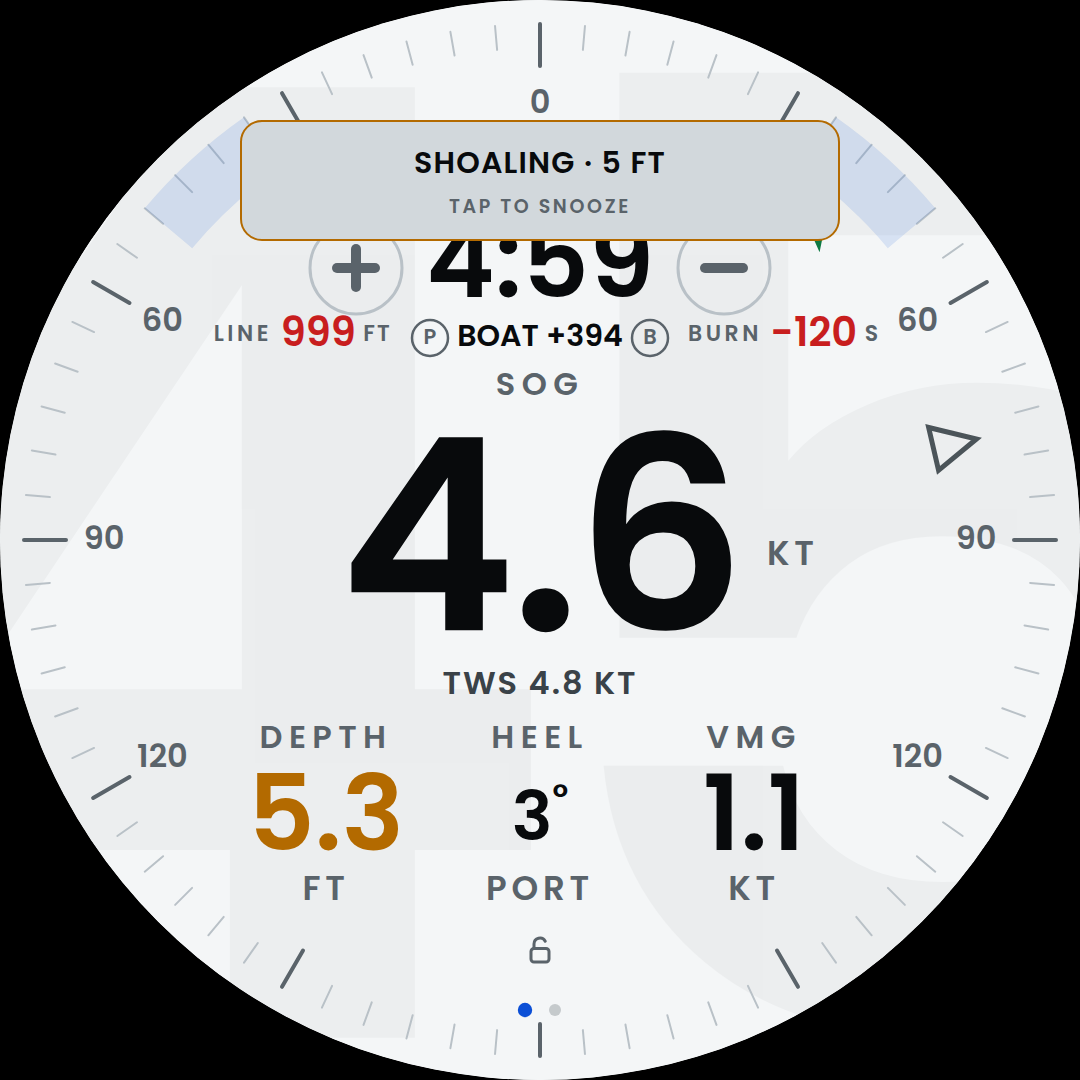
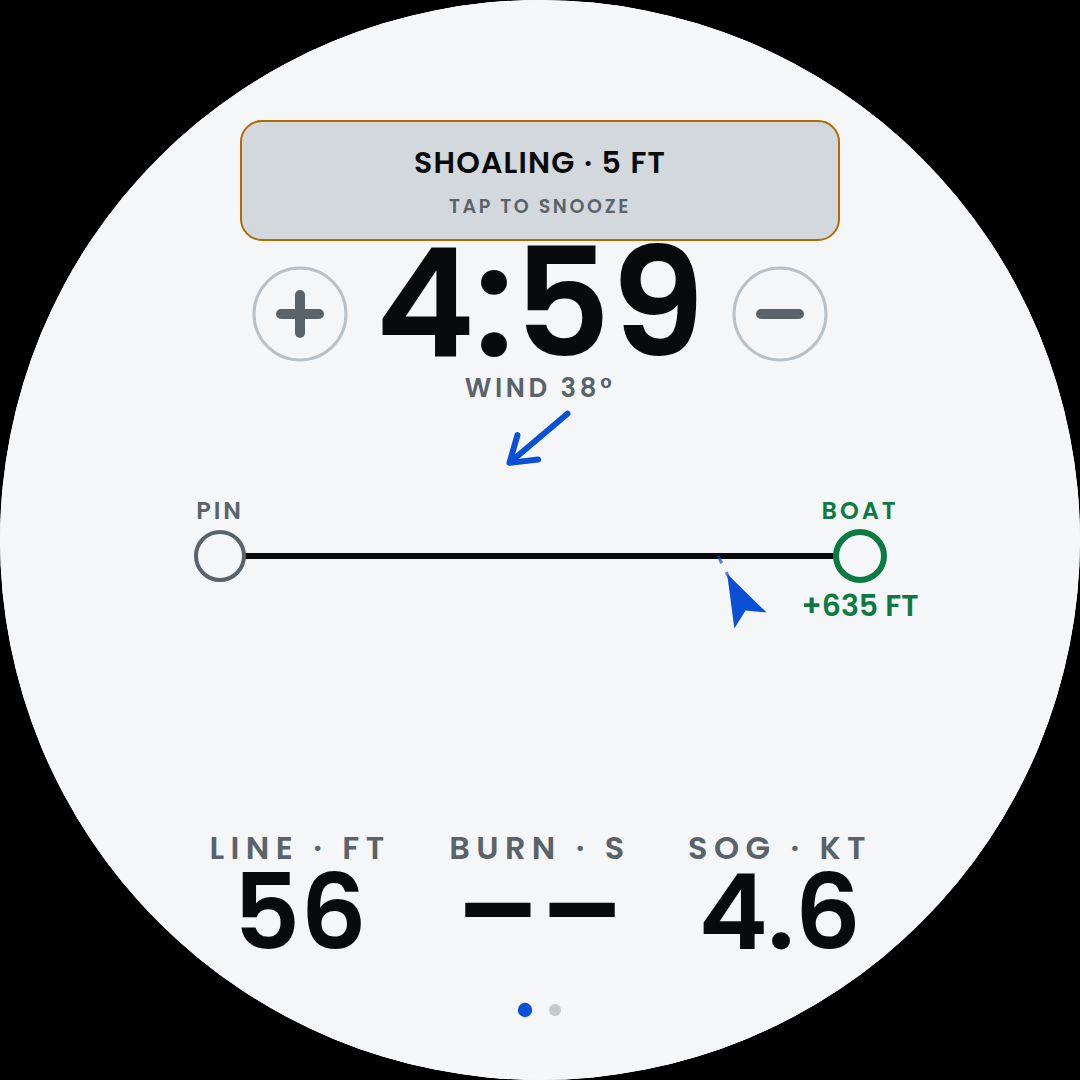
The start: from the first second of the countdown the whole face is the line
A new last group in the dial's SVG, #race-ov, up while tState is
countdown and gone at the gun or on reset. Its face is an opaque circle,
so nothing under it takes a tap, and the stage's gestures work through
it unchanged: a tap in the top third is the timer's (double for the
gun), a hold is reset, the swipes are the panel's and the dock's.

Top: the countdown at 150px, the same +/- sync either side, at 314
rather than the dial's 268 so the alert banner (which ends at 240)
cannot cover its ink - a shoaling warning is exactly what turns up on a
start line. No COUNTDOWN word; the overlay is the word.

Middle: the line to scale, looking upwind. lineData now hands out its
frame - n, the upwind unit normal, and v, pin to boat end - and the
picture is drawn in it: right is whichever way puts the far end to the
right seen from the pre-start side, so pin and boat end are on the sides
they really are. The wind arrow comes at the line from above tilted by
the bias; the favoured end is ringed green with its worth under it and
both ends ping on a tap; the boat is the arrow where she is, pointing
where she is going, her course dashed to where it meets the line; over
early is above the line, red. One scale for everything: up to 2.8 px/m,
the line filling the width, and the boat always fitting - a long way
off zooms out and the line shrinks with it.

Foot: LINE, BURN (green with time, red when late) and SOG at 300, 540
and 780, sized so 999 / -120 / 4.6 keep air between them.
[…]

diff --git a/confluence_helm.html b/confluence_helm.html
@@ -137,6 +137,21 @@ body.night #mark{opacity:.07}
 .rv .u{font-size:.55em;font-weight:600;fill:var(--label);letter-spacing:.1em}
 .rv.good{fill:var(--stbd)}.rv.bad{fill:var(--port)}
 .rbias{font-size:30px;font-weight:var(--w-val);fill:var(--ink)}
+/* the start overlay: the whole face, from the first second of the
+   countdown to the gun */
+#ov-timer{font-size:150px}
+#ov-burn{font-size:120px}
+.ov-small{font-size:26px;font-weight:600;letter-spacing:.14em;fill:var(--label)}
+.ov-lineln{stroke:var(--ink);stroke-width:6;stroke-linecap:round}
+.ov-end circle{fill:var(--bg);stroke:var(--label);stroke-width:4}
+.ov-end text{font-size:24px;font-weight:600;letter-spacing:.12em;fill:var(--label);text-anchor:middle}
+.ov-end.fav circle{stroke:var(--stbd);stroke-width:6}.ov-end.fav text{fill:var(--stbd)}
+.ov-end.set circle{fill:var(--chip)}
+.ov-end:active circle{fill:var(--hairline)}
+.ov-gain{font-size:30px;font-weight:600;fill:var(--stbd);text-anchor:middle}
+.ov-wind path{stroke:var(--accent);stroke-width:6;fill:none;stroke-linecap:round;stroke-linejoin:round}
+.ov-cogln{stroke:var(--accent);stroke-width:3;stroke-dasharray:10 10;fill:none;opacity:.7}
+.ov-boat path{fill:var(--accent)}.ov-boat.over path{fill:var(--port)}
 .pbtn .ring{fill:none;stroke:var(--label);stroke-width:2.5}
 .pbtn .hit{fill:transparent}
 .pbtn text{font-size:21px;font-weight:600;fill:var(--label)}
@@ -1501,6 +1516,71 @@ document.body.className = THEME_EFF==='day' ? '' : THEME_EFF;
       <rect class="lg" x="6" y="11" width="12" height="9" rx="2"/>
     </g>
   </g>
+
+  <!-- ================================================================
+       THE START. From the first second of the countdown to the gun the
+       whole face is the start line, because for those five minutes
+       nothing else on it matters and the dial's numbers are the wrong
+       shape for the question - am I going to be on the line, on time,
+       at the right end.
+       Top: the countdown at 150px with the same +/- sync either side,
+       at 314 rather than the dial's 268 so the alert banner, which ends
+       at 240, cannot sit over its ink (241 up) - a shoaling warning is exactly what
+       turns up on a start line. No COUNTDOWN word: the overlay is the
+       word.
+       Middle: the line, drawn to scale and looking upwind - the wind
+       arrow comes at it from above, tilted by the bias, so a line that
+       is not square to the wind LOOKS not square; the favoured end is
+       ringed green with what it is worth under it; the boat is the
+       arrow, where she actually is against the line, pointing where
+       she is actually going, with her course dashed on to where it
+       meets the line. Over early and she is drawn above it, red.
+       Foot: LINE, BURN, SOG - distance, time in hand, speed.
+       The last group in the SVG, so it paints over everything on the
+       dial, and its face is an opaque circle so nothing under it can
+       take a tap. The stage's gestures still work through it: a tap in
+       the top third is the timer's (double for the gun), a hold is
+       reset, the swipes are the panel's and the dock's. -->
+  <g id="race-ov" style="display:none">
+    <circle cx="540" cy="540" r="540" fill="var(--bg)"/>
+    <text id="ov-timer" class="value" x="540" y="314" text-anchor="middle">5:00</text>
+    <g id="ov-plus" class="tbtn">
+      <circle cx="300" cy="314" r="46"/>
+      <rect x="276" y="309" width="48" height="10" rx="5"/>
+      <rect x="295" y="290" width="10" height="48" rx="5"/>
+    </g>
+    <g id="ov-minus" class="tbtn">
+      <circle cx="780" cy="314" r="46"/>
+      <rect x="756" y="309" width="48" height="10" rx="5"/>
+    </g>
+    <g id="ov-pic">
+      <text id="ov-twd" class="ov-small" x="540" y="390" text-anchor="middle">WIND ––</text>
+      <g id="ov-wind" class="ov-wind" transform="translate(540 437)">
+        <path d="M0 -36 L0 36"/><path d="M-16 16 L0 40 L16 16"/>
+      </g>
+      <line id="ov-line" class="ov-lineln" x1="220" y1="556" x2="860" y2="556"/>
+      <g id="ov-end-l" class="ov-end" transform="translate(220 556)">
+        <circle r="24"/><text id="ov-end-l-t" y="-44">PIN</text>
+      </g>
+      <g id="ov-end-r" class="ov-end" transform="translate(860 556)">
+        <circle r="24"/><text id="ov-end-r-t" y="-44">BOAT</text>
+      </g>
+      <text id="ov-gain" class="ov-gain" x="220" y="608"></text>
+      <path id="ov-cog" class="ov-cogln" d=""/>
+      <g id="ov-boat" class="ov-boat" transform="translate(540 700)">
+        <path d="M0 -28 L18 24 L0 13 L-18 24 Z"/>
+      </g>
+      <text id="ov-nofix" class="ov-small" x="540" y="690" text-anchor="middle" style="display:none">NO POSITION</text>
+    </g>
+    <!-- 300 / 540 / 780: at 920 the face runs 156..924, and a three-digit
+         LINE at 104px is 200 wide, a -120 BURN at 120px is 280. -->
+    <text id="ov-dist-l" class="label" x="300" y="850" text-anchor="middle">LINE · M</text>
+    <text id="ov-dist"   class="value" x="300" y="920" text-anchor="middle">––</text>
+    <text id="ov-burn-l" class="label" x="540" y="850" text-anchor="middle">BURN · S</text>
+    <text id="ov-burn"   class="value" x="540" y="920" text-anchor="middle">––</text>
+    <text id="ov-sog-l"  class="label" x="780" y="850" text-anchor="middle">SOG · KT</text>
+    <text id="ov-sog"    class="value" x="780" y="920" text-anchor="middle">––</text>
+  </g>
 </svg>
 
 <div id="dots"><i></i><i></i></div>
@@ -2449,6 +2529,10 @@ function render(){
           !L||L.burn===null?'':'S');
     wCls ('rc-burn-v','bad', !!L && L.burn!==null && L.burn<0);
   }
+  /* The start overlay: the countdown, and only the countdown. */
+  const ov = tState==='countdown';
+  wSty('race-ov','display', ov?'':'none');
+  if(ov) paintStart(L, met);
   paintDialCells();
 
   }
@@ -2674,7 +2758,94 @@ function lineData(){
      A crossing that is not between the ends is a boat sailing round
      the pin, not a start. */
   const along=(wx*vx+wy*vy)/(len*len);
-  return {dist, bias, gain, favoured, burn, len, along};
+  /* n is the upwind unit normal, v the pin-to-boat vector in metres:
+     the start overlay draws its picture in that frame. */
+  return {dist, bias, gain, favoured, burn, len, along, n:{x:nx,y:ny}, v:{x:vx,y:vy}};
+}
+
+/* ---- the start overlay's picture ----------------------------------------
+   The frame is the line's: up is the upwind normal n, and right is
+   whichever way puts the far end to the right when you look upwind from
+   the pre-start side - so the picture is what you would see over the
+   bow, pin and boat end on the sides they really are. Everything is to
+   one scale, chosen so the line fills the width up to 2.8 px/m and the
+   boat always fits: a long way off zooms out, the line shrinks with it,
+   and the geometry stays honest. Over early is above the line, red. */
+const OV={lineY:556, halfMax:320, below:244, above:85, sMax:2.8};
+function paintStart(L, met){
+  const sog=get('navigation.speedOverGround'), cog=get('navigation.courseOverGroundTrue');
+  let twd=get('environment.wind.directionTrue'); twd=twd===null?null:twd*DEG;
+  wText('ov-sog', sog===null?'––':(sog*MS_TO_KT).toFixed(1));
+  wText('ov-dist-l', 'LINE · '+(met?'M':'FT'));
+  wText('ov-twd', twd===null?'WIND ––':'WIND '+Math.round((twd+360)%360)+'\u00b0');
+  wSty('ov-nofix','display', L?'none':'');
+  wSty('ov-boat','display',  L?'':'none');
+  wSty('ov-cog','display',   L?'':'none');
+  wSty('ov-wind','display',  L&&twd!==null?'':'none');
+  wSty('ov-gain','display',  L?'':'none');
+  if(!L){
+    wText('ov-dist','––'); wText('ov-burn','––');
+    wCls('ov-dist','bad',false); wCls('ov-burn','bad',false); wCls('ov-burn','good',false);
+    wAttr('ov-line','x1',220); wAttr('ov-line','x2',860);
+    wAttr('ov-end-l','transform','translate(220 556)'); wAttr('ov-end-r','transform','translate(860 556)');
+    return;
+  }
+  const dm = met ? L.dist : L.dist*M_TO_FT;
+  wText('ov-dist', Math.abs(dm)>999?'999':String(Math.round(dm)));
+  wCls ('ov-dist','bad', L.dist<0);
+  wText('ov-burn', L.burn===null?'––':(L.burn>0?'+':'')+L.burn);
+  wCls ('ov-burn','bad',  L.burn!==null && L.burn<0);
+  wCls ('ov-burn','good', L.burn!==null && L.burn>=0);
+
+  /* the frame. A line without one - nothing real, but a stub in a probe
+     was enough - gets the square, pin-left default rather than a throw:
+     a throw here ends render() for good, and with it the whole dial. */
+  const n=L.n||{x:0,y:1}, v=L.v||{x:L.len,y:0};
+  const flip = (v.x*n.y - v.y*n.x) < 0;            // boat end left of the pin, seen upwind
+  const r = flip ? {x:-n.y, y:n.x} : {x:n.y, y:-n.x};
+  let s=Math.min(OV.sMax, 2*OV.halfMax/L.len);
+  if(L.dist>0)      s=Math.min(s, OV.below/L.dist);
+  else if(L.dist<0) s=Math.min(s, OV.above/-L.dist);
+  const half=L.len*s/2, y0=OV.lineY;
+  const xPin = flip ? 540+half : 540-half, xBoat = flip ? 540-half : 540+half;
+  wAttr('ov-line','x1',Math.round(Math.min(xPin,xBoat))); wAttr('ov-line','x2',Math.round(Math.max(xPin,xBoat)));
+  const endL=flip?'boat':'pin', endR=flip?'pin':'boat';
+  const endX={pin:xPin, boat:xBoat};
+  for(const [id,k] of [['ov-end-l',endL],['ov-end-r',endR]]){
+    wAttr(id,'transform',`translate(${Math.round(endX[k])} ${y0})`);
+    wAttr(id,'data-end',k);
+    wText(id+'-t', k.toUpperCase());
+    wCls(id,'fav', L.favoured===k.toUpperCase());
+    wCls(id,'set', !!LINE[k]);
+  }
+  const favX=endX[L.favoured.toLowerCase()];
+  wAttr('ov-gain','x',Math.round(favX));
+  wText('ov-gain','+'+Math.round(met?L.gain:L.gain*M_TO_FT)+(met?' M':' FT'));
+
+  /* the boat */
+  const bx = xPin + (xBoat-xPin)*L.along, by = y0 + L.dist*s;
+  let a=0;
+  if(cog!==null){ const c={x:Math.sin(cog), y:Math.cos(cog)};
+    a=Math.atan2(c.x*r.x+c.y*r.y, c.x*n.x+c.y*n.y)*DEG; }
+  wAttr('ov-boat','transform',`translate(${bx.toFixed(1)} ${by.toFixed(1)}) rotate(${a.toFixed(1)})`);
+  wCls('ov-boat','over', L.dist<0);
+  /* her course, dashed, to where it meets the line - or 600 px of it */
+  let d='';
+  if(cog!==null){
+    const dx=Math.sin(a/DEG), dy=-Math.cos(a/DEG);
+    let len=600;
+    if(dy<-0.01 && by>y0) len=Math.min(len,(by-y0)/-dy);
+    if(dy> 0.01 && by<y0) len=Math.min(len,(y0-by)/dy);
+    d=`M${bx.toFixed(1)} ${by.toFixed(1)} L${(bx+dx*len).toFixed(1)} ${(by+dy*len).toFixed(1)}`;
+  }
+  wAttr('ov-cog','d',d);
+
+  /* the wind, from above, tilted by however far the line is off square */
+  if(twd!==null){
+    const u={x:Math.sin(twd/DEG), y:Math.cos(twd/DEG)};
+    const t=Math.atan2(u.x*r.x+u.y*r.y, u.x*n.x+u.y*n.y)*DEG;
+    wAttr('ov-wind','transform',`translate(540 437) rotate(${t.toFixed(1)})`);
+  }
 }
 
 /* ---- auto start, auto finish ------------------------------------------
@@ -3045,6 +3216,8 @@ function tick(){
   lb.textContent=lbl;
   el.classList.toggle('stale',dim);
   el.classList.toggle('alarm',hot);
+  wText('ov-timer', clock(Math.max(0,ms)));
+  wCls ('ov-timer','alarm', hot);
   // a finished time pulses so it is obviously frozen, not still running
   el.style.opacity=(tState==='finished'&&Math.floor(Date.now()/600)%2)?'.4':'';
 
@@ -3673,6 +3846,19 @@ $('t-minus').addEventListener('pointerdown',gClaim);
 $('t-plus') .addEventListener('pointerdown',gClaim);
 $('t-minus').addEventListener('pointerup',()=>nudge(-60));
 $('t-plus') .addEventListener('pointerup',()=>nudge( 60));
+/* The overlay's pair, the same way round as the dial's. */
+$('ov-minus').addEventListener('pointerdown',gClaim);
+$('ov-plus') .addEventListener('pointerdown',gClaim);
+$('ov-minus').addEventListener('pointerup',()=>nudge(-60));
+$('ov-plus') .addEventListener('pointerup',()=>nudge( 60));
+/* The overlay's line ends ping too: which end each one IS is set at
+   paint, because the picture flips to keep the view looking upwind. */
+['ov-end-l','ov-end-r'].forEach(id=>{
+  $(id).addEventListener('pointerdown',gClaim);
+  $(id).addEventListener('pointerup',()=>{
+    const k=$(id).dataset.end; if(!k) return;
+    pingEnd(k); $('ping-'+k).classList.add('set'); });
+});
 
 /* ==================================================================
    CONNECTIVITY  ·  WiFi adapters and Bluetooth

diff --git a/docs/readings.md b/docs/readings.md
@@ -168,16 +168,14 @@ stays against the last digit.
 
 ## The race set
 
-The start-line numbers live round the timer, which is where the start
-already was, so the big number keeps the middle of the glass at full
-size and the readings below keep their cells through the sequence:
+Before the sequence, the start-line numbers live round the timer, which
+is where the start already was, so the big number keeps the middle of
+the glass at full size and the readings below keep their cells:
 
 ```
           (+)      5:00      (-)
    LINE 45 M   (P) PIN +12 (B)   BURN +3 S
 ```
-
-![The dial during a countdown](img/dial-countdown.png)
 
 | Item | What it is |
 |---|---|
@@ -194,10 +192,48 @@ ends: `PIN +12` with the P ring on its left is the whole sentence. It
 is up while the clock is idle as well as counting down, since the end
 you pick is decided before the sequence, not during it.
 
-They used to take over the three bottom cells during the countdown
-instead — which cost you depth, heel and VMG for the whole sequence, at
-the one time you most want the depth. Target speed and the wind shift
-are not here: they are readings, picked into any slot like the rest.
+Target speed and the wind shift are not here: they are readings, picked
+into any slot like the rest.
+
+## The start
+
+From the first second of the countdown to the gun, the whole face is
+the start line. For those five minutes nothing else on the glass
+matters, and the dial's numbers are the wrong shape for the question —
+*am I going to be on the line, on time, at the right end.*
+
+![The start overlay during a countdown](img/dial-countdown.png)
+
+**The clock** at the top, with the same plus and minus either side to
+sync it to a signal. It sits lower than the dial's so the alert banner
+cannot cover it — a shoaling warning is exactly what turns up on a start
+line.
+
+**The picture** is the line, to scale, looking upwind:
+
+- The wind comes at the line from above, and the arrow is tilted by the
+  bias, so a line that is not square to the wind *looks* not square.
+- Pin and boat end are on the sides they really are, seen from the
+  pre-start side. The favoured end is ringed green with what it is
+  worth under it. Tap either end to ping it as you pass — the same as
+  the P and B rings on the dial.
+- The boat is the arrow: where she actually is against the line,
+  pointing where she is actually going, with her course dashed on to
+  where it meets the line. Over early and she is drawn above the line,
+  in red.
+- Everything shares one scale, chosen so the line fills the width and
+  the boat always fits: a long way off zooms out, and the line shrinks
+  with it, so the geometry never lies.
+
+**The foot** is the three numbers: `LINE`, distance to go; `BURN`, the
+seconds in hand at this speed, green with time and red when late; and
+`SOG`.
+
+A double tap on the clock is the gun, as on the dial; a hold is reset;
+the swipes still open the panel and the dock over it. It goes at the
+gun, when the dial and its leg readings come back, and reset brings the
+dial back too. Depth is never hidden by it: the shallow alarm is a
+banner over everything.
 
 ## When a sensor is not there
 

diff --git a/README.md b/README.md
@@ -24,7 +24,7 @@ dots at the foot say where you are. The dial is the one you come back to.
 
 | | |
 |---|---|
-| ![Dial](docs/img/dial.png) | **Dial** — the instrument. Five readings you choose, the start line round the timer, a compass bezel carrying apparent and true wind marks, and a start-line timer you tap to run. |
+| ![Dial](docs/img/dial.png) | **Dial** — the instrument. Five readings you choose, the start line round the timer, a compass bezel carrying apparent and true wind marks, and a countdown that takes the whole face and draws the line to scale. |
 | ![Music](docs/img/music.png) | **Music** — what is playing, transport, a volume ring around the album art, and three more readings around that. |
 
 **Apps** are not pages, and the difference is deliberate: a page is always
